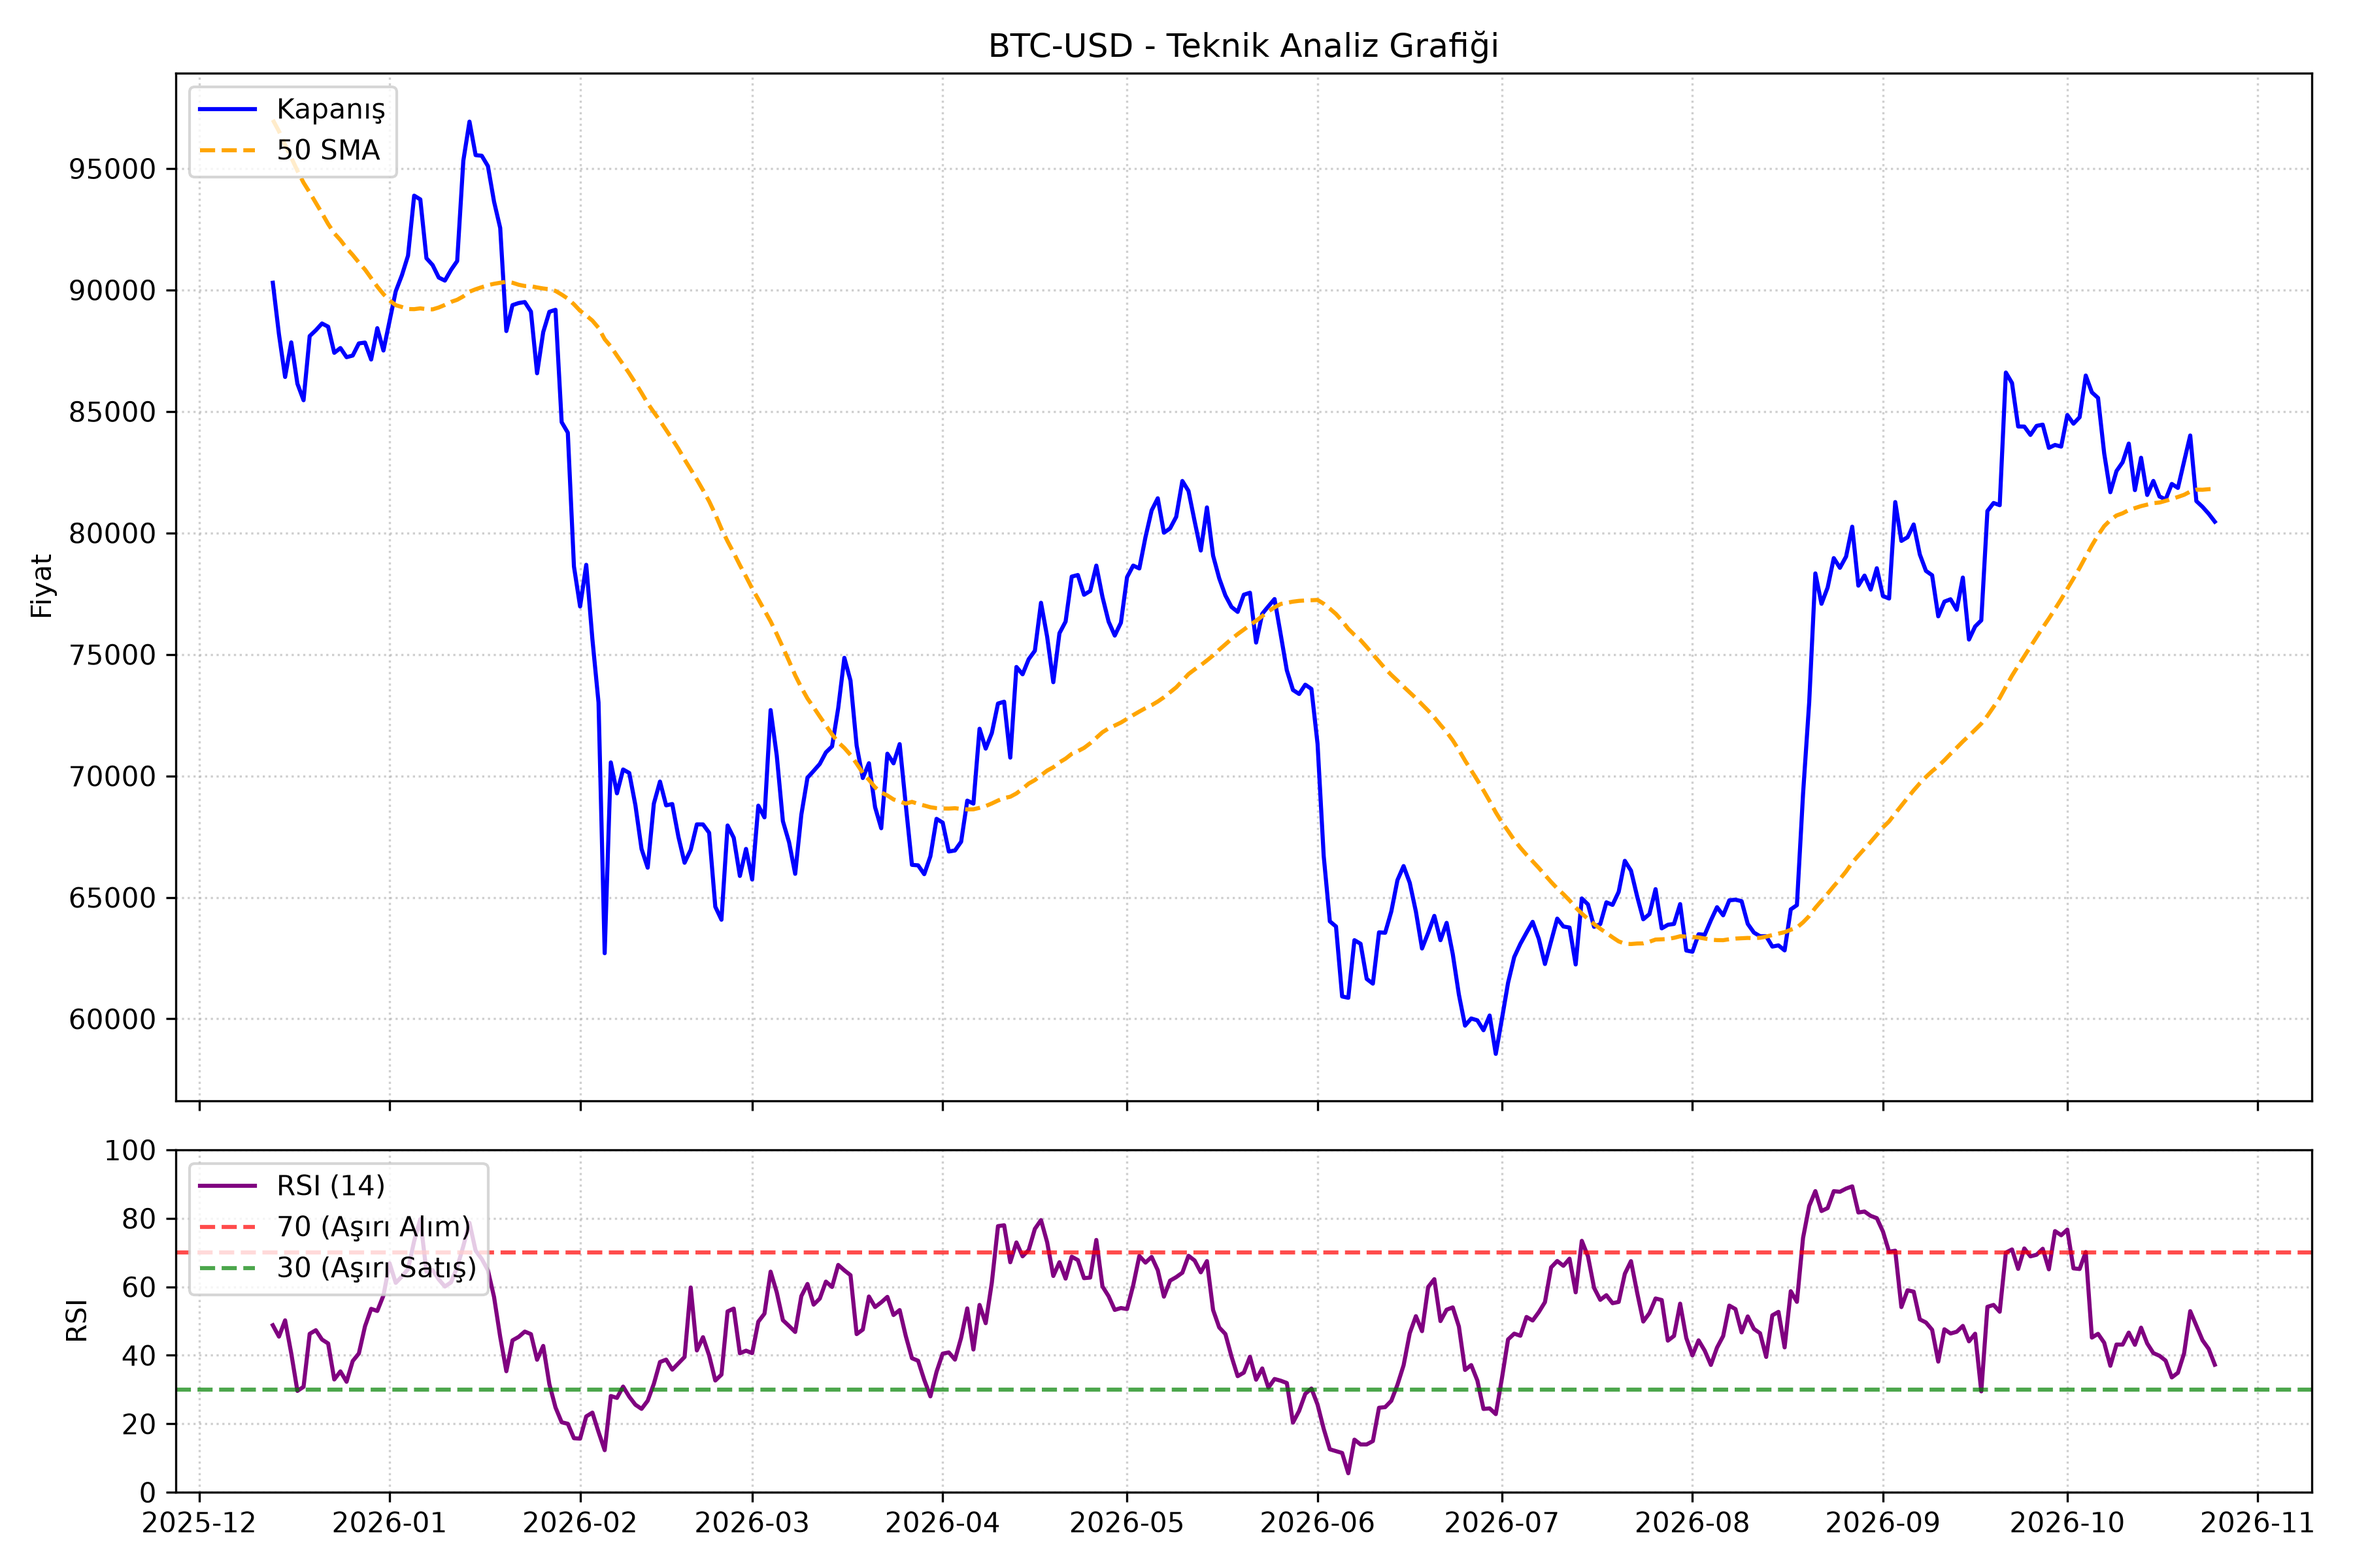
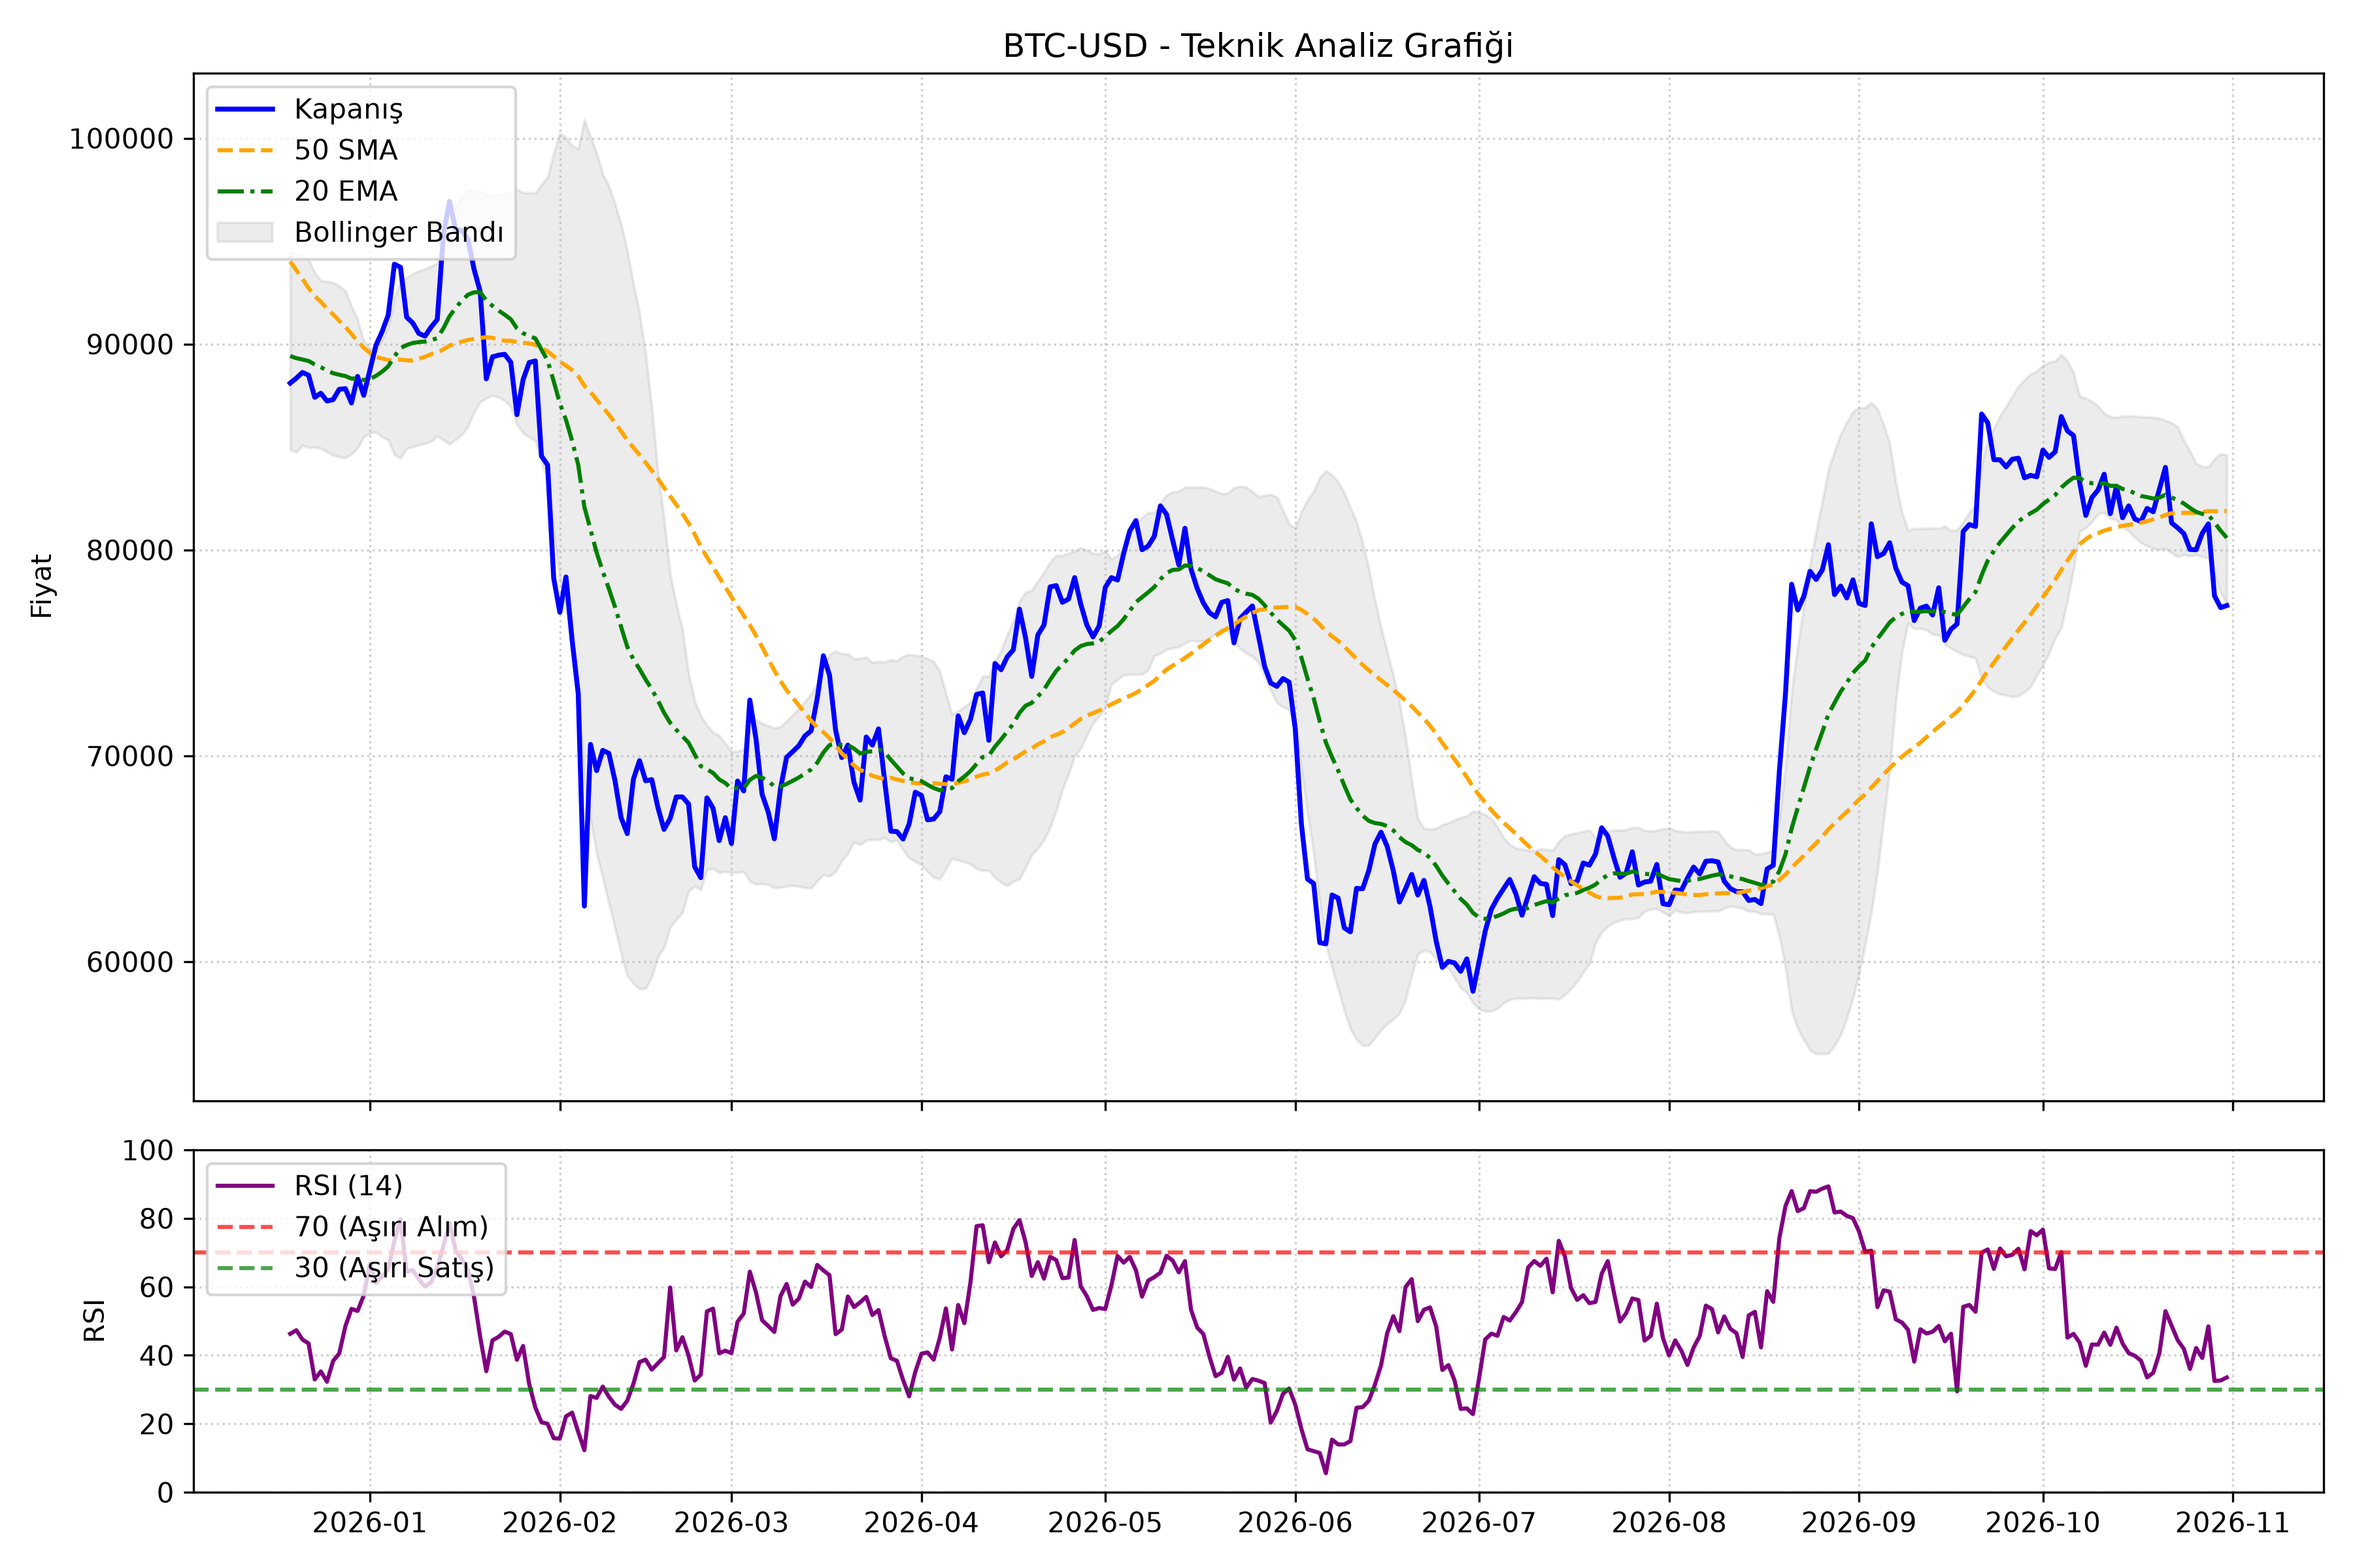
yeni takip listesi ve grafik düzeni

diff --git a/graphics_analyzer/plotter.py b/graphics_analyzer/plotter.py
@@ -19,12 +19,13 @@ class ChartPlotter:
         )
 
         # Üst Grafik: Fiyat, SMA 50, EMA 20 ve Bollinger Bantları
+        # Üst Grafik: Fiyat, SMA 50 ve EMA 20
         ax1.plot(
             self.df.index,
             self.df["Close"],
             label="Kapanış",
             color="blue",
-            linewidth=1.5,
+            linewidth=1.8,
         )
         ax1.plot(
             self.df.index,
@@ -40,21 +41,15 @@ class ChartPlotter:
             color="green",
             linestyle="-.",
         )
-        ax1.plot(
-            self.df.index,
-            self.df["Bollinger_Upper"],
-            label="Bollinger Üst",
-            color="red",
-            linestyle=":",
-            alpha=0.7,
-        )
-        ax1.plot(
+
+        # Bollinger Bantlarını Çizgi Yerine Şeffaf Alan Olarak Boyuyoruz (Daha Temiz Görünüm)
+        ax1.fill_between(
             self.df.index,
             self.df["Bollinger_Lower"],
-            label="Bollinger Alt",
+            self.df["Bollinger_Upper"],
             color="gray",
-            linestyle=":",
-            alpha=0.7,
+            alpha=0.15,
+            label="Bollinger Bandı",
         )
 
         ax1.set_title(f"{self.symbol} - Teknik Analiz Grafiği")

diff --git a/graphics_analyzer/main.py b/graphics_analyzer/main.py
@@ -5,7 +5,19 @@ from plotter import ChartPlotter
 
 def main():
     # Analiz etmek istediğimiz tüm semboller (Döviz, BIST Hisse, Kripto vb.)
-    takip_listesi = ["USDTRY=X", "THYAO.IS", "BTC-USD"]
+    takip_listesi = takip_listesi = [
+        # Döviz & Maden
+        "USDTRY=X",
+        "EURTRY=X",
+        "GC=F",
+        # BIST Hisseleri
+        "THYAO.IS",
+        "GARAN.IS",
+        "ASELS.IS",
+        # Kripto
+        "BTC-USD",
+        "ETH-USD",
+    ]
 
     for symbol in takip_listesi:
         print(f"\n==========================================")
